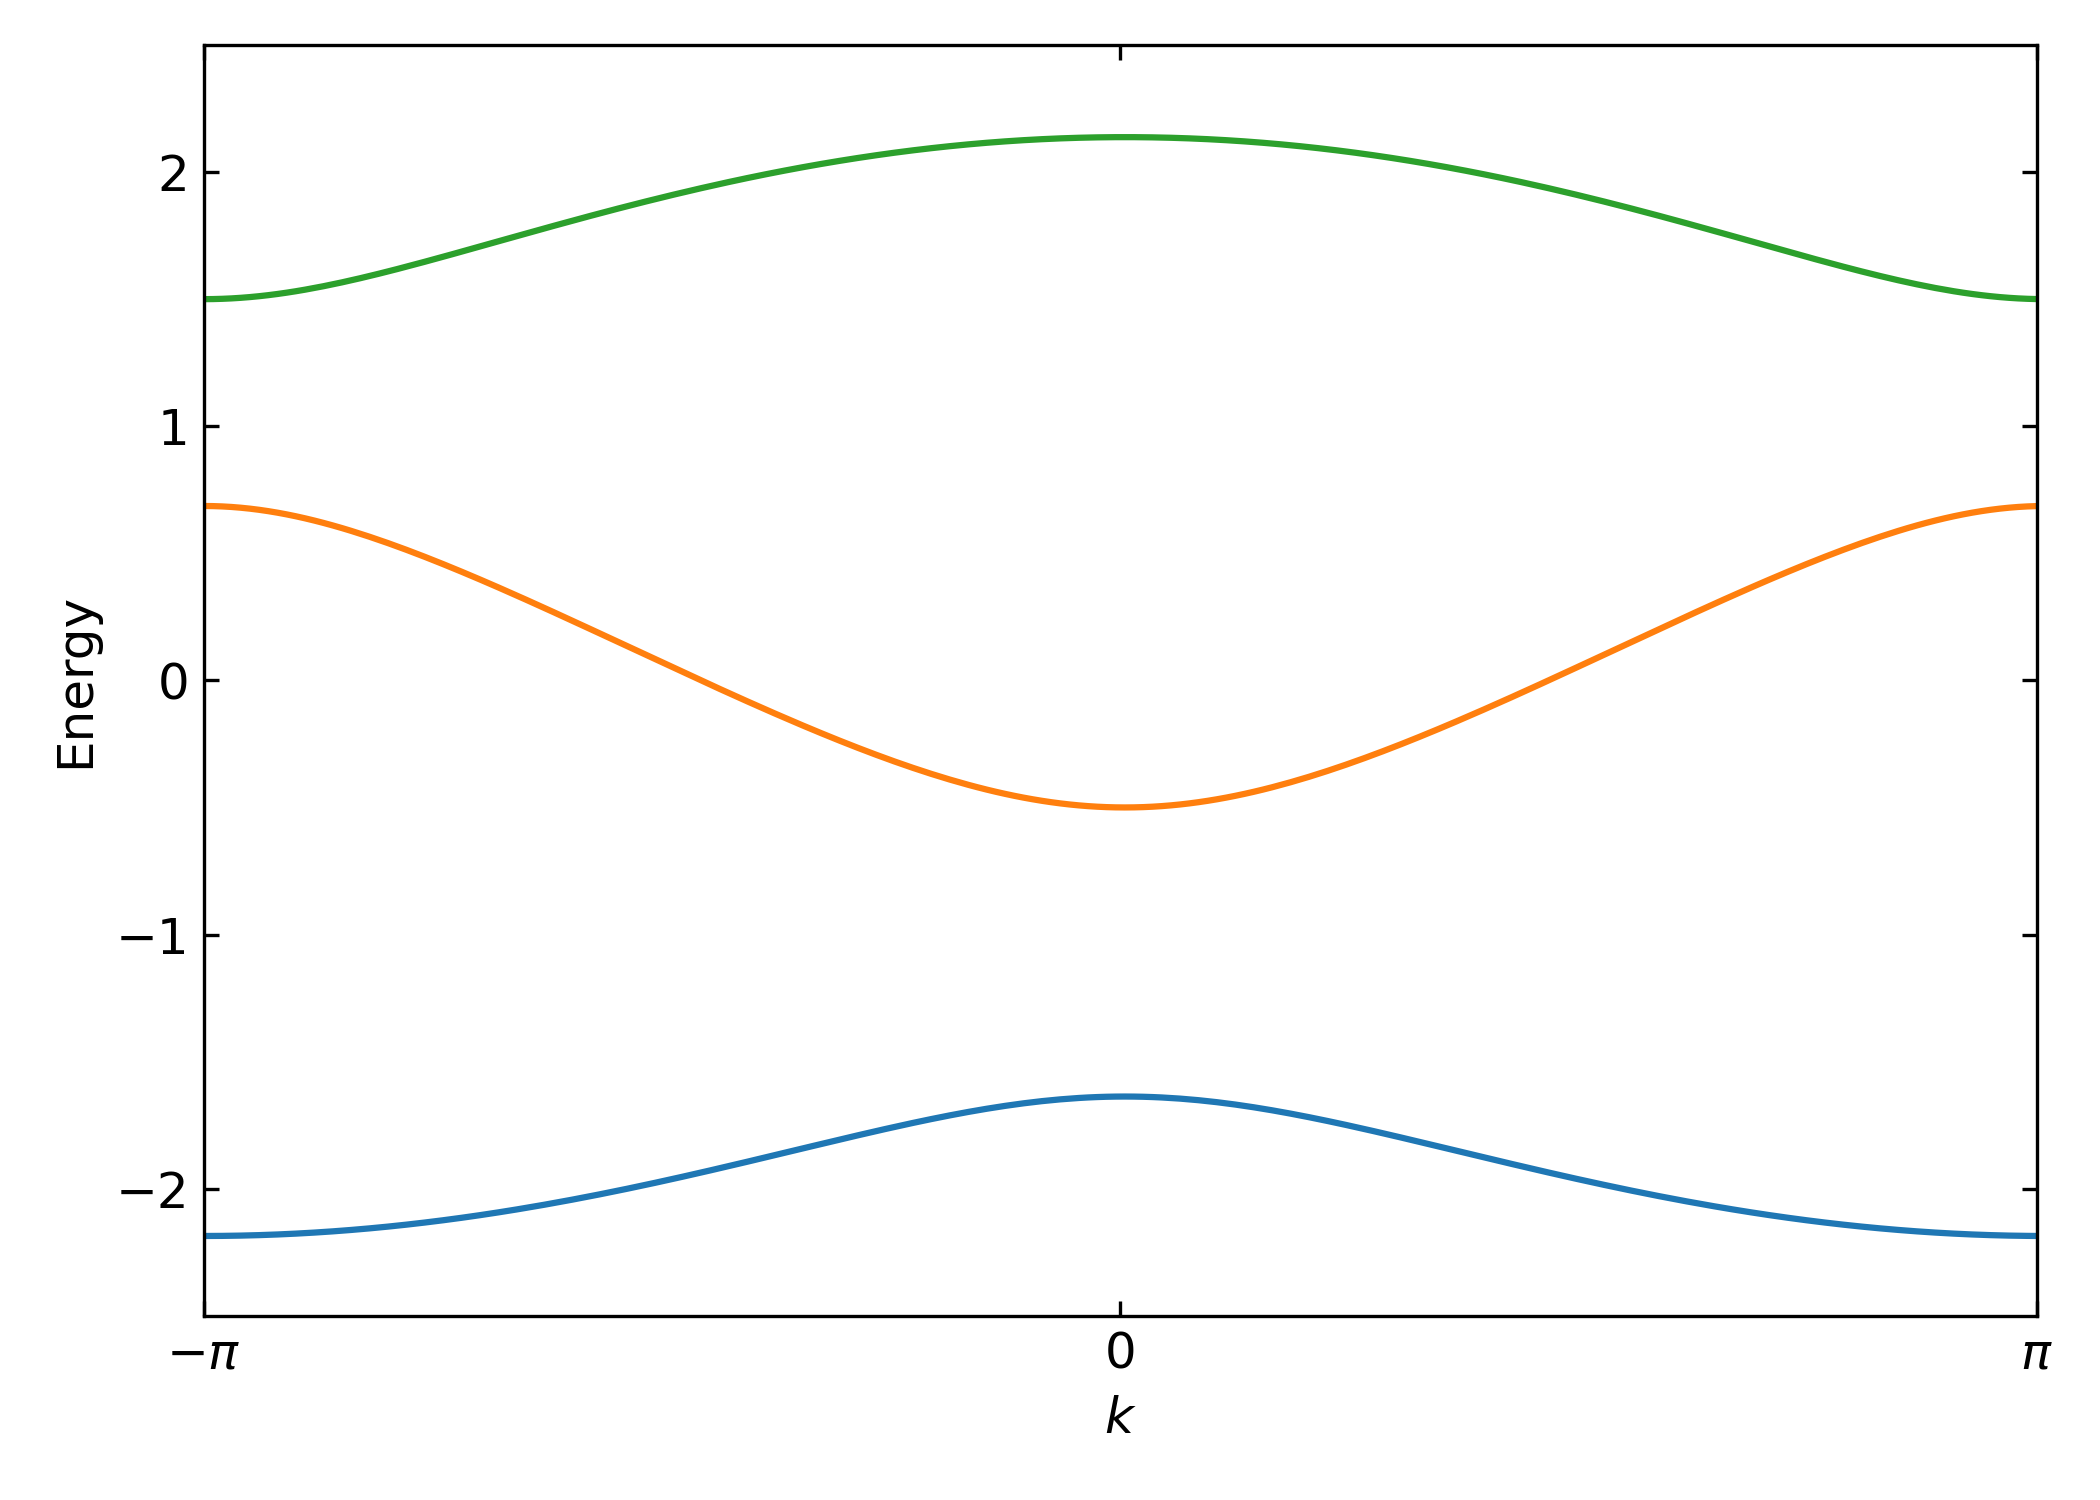
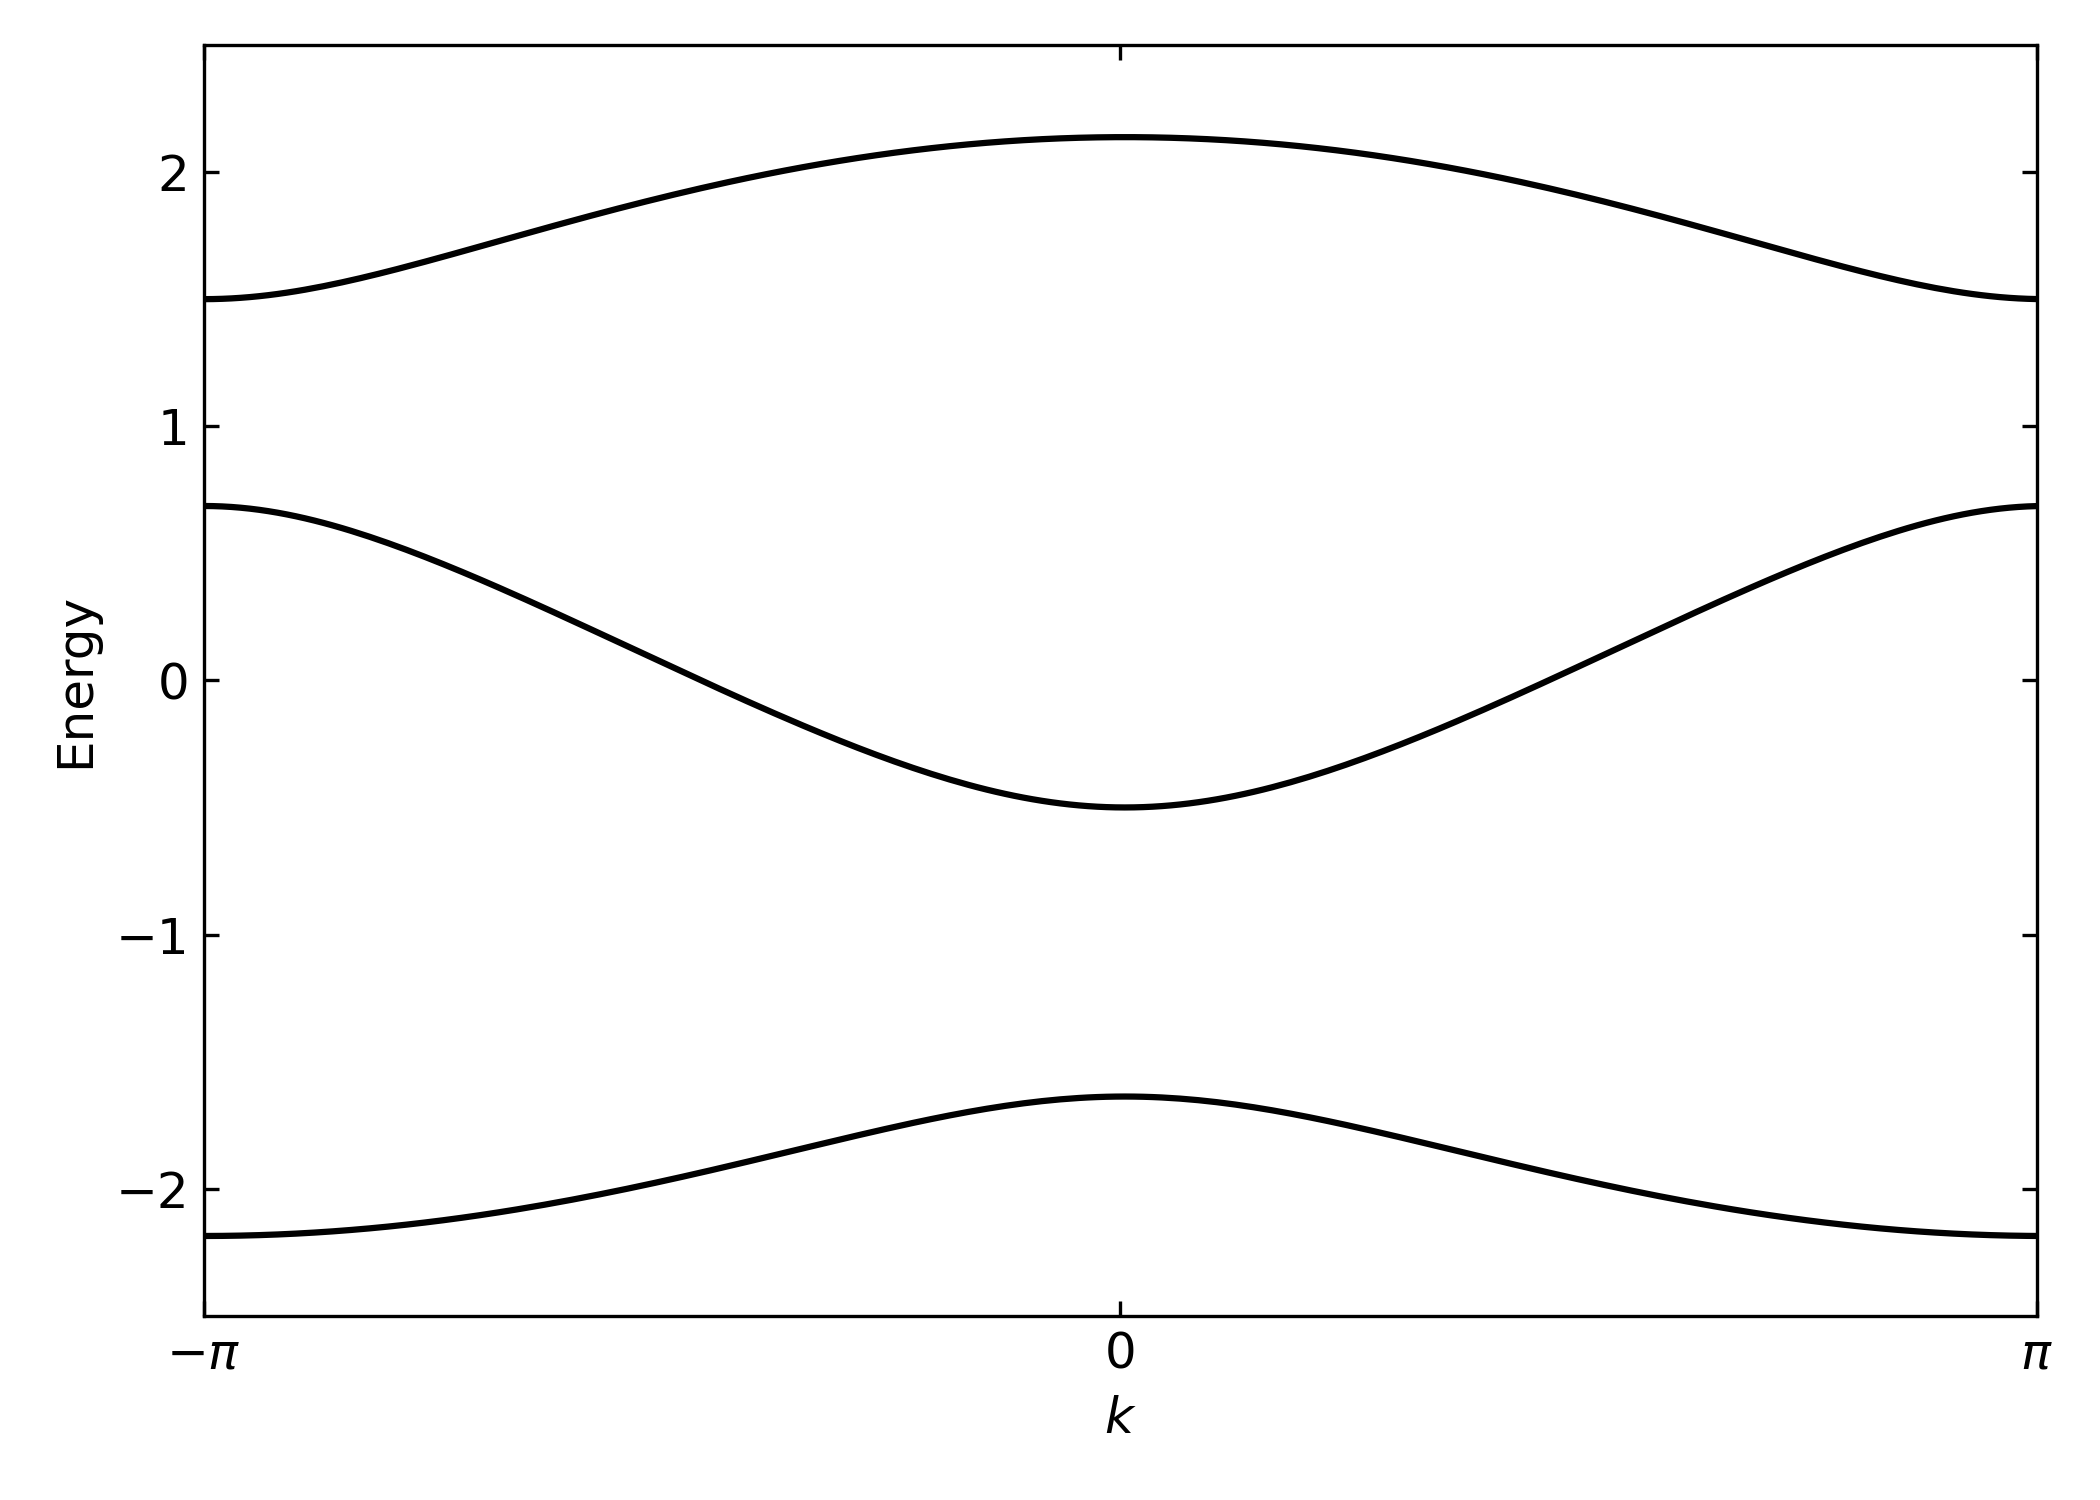
added 2 band hamiltonian and edited README.md

diff --git a/tight-binding/pol_electric.py b/tight-binding/pol_electric.py
@@ -27,7 +27,7 @@ def calc_static_pol_el(E_field, N=200, max_iter=300, get_v_k=False):
     dk = 2*np.pi/N
     x_l = np.array([-1/3, 0, 1/3])
     
-    # Intra-cell gauge phases for accurate overlaps
+    # Intra-cell phases for accurate overlaps
     D_plus = np.exp(-1j * dk * x_l)
     D_minus = np.exp(1j * dk * x_l)
     
@@ -57,7 +57,7 @@ def calc_static_pol_el(E_field, N=200, max_iter=300, get_v_k=False):
         v_k_new = vecs[:, :, 0]
         
         # Include geometric phase in wave functions to prevent discontinuities
-        phase = np.angle(np.sum(v_k.conj() * v_k_new, axis=1))
+        phase = np.imag(np.log(np.sum(v_k.conj() * v_k_new, axis=1)))
         v_k_new = v_k_new * np.exp(-1j * phase)[:, None]
         
         if np.max(np.abs(v_k_new - v_k)) < 1e-7:    # Tolerance for convergence
@@ -70,7 +70,8 @@ def calc_static_pol_el(E_field, N=200, max_iter=300, get_v_k=False):
     v_k_plus = np.roll(v_k, -1, axis=0)
     overlaps = np.sum(v_k.conj() * D_plus * v_k_plus, axis=1)
     
-    pol_static = np.angle(np.prod(overlaps)) / (2 * np.pi)
+    pol_static = np.imag(np.log(np.prod(overlaps))) / (2*np.pi)
+
     if get_v_k:
         return v_k, pol_static
     else:
@@ -106,7 +107,7 @@ def calc_dyn_pol_el(E_max, T_ramp, N=200, dt=0.005, t_max=120):
     
     I_stack = np.tile(np.eye(3, dtype=complex), (N, 1, 1))
     times = np.arange(0, t_max + dt/2, dt)
-    P_vals, saved_times = [], []
+    ang, saved_times = [], []
     save_interval = 20
     
     for step, t in enumerate(times):
@@ -116,9 +117,8 @@ def calc_dyn_pol_el(E_max, T_ramp, N=200, dt=0.005, t_max=120):
         if step % save_interval == 0:
             v_k_plus = np.roll(v_k, -1, axis=0)
             overlaps = np.sum(v_k.conj() * D_plus * v_k_plus, axis=1)
-            
-            # Positive sign applied here
-            P_vals.append(np.angle(np.prod(overlaps)) / (2 * np.pi))
+
+            ang.append(np.imag(np.log(np.prod(overlaps))))
             saved_times.append(t)
             
         # dual states and overlaps
@@ -143,7 +143,7 @@ def calc_dyn_pol_el(E_max, T_ramp, N=200, dt=0.005, t_max=120):
         x = np.linalg.solve(B, v_k[..., np.newaxis])
         v_k = (A @ x)[..., 0]
         
-    P_unwrapped = np.unwrap(np.array(P_vals) * 2 * np.pi) / (2 * np.pi)
-    P_unwrapped -= P_unwrapped[0]
-    return np.array(saved_times), P_unwrapped
+    P_dyn = np.unwrap(np.array(ang)) / (2*np.pi)
+    P_dyn -= P_dyn[0]
+    return np.array(saved_times), P_dyn
 

diff --git a/tight-binding/pol_alpha.py b/tight-binding/pol_alpha.py
@@ -30,7 +30,7 @@ def calc_dyn_pol_alpha(T: float, t_max: float, N_k: int):
     save_interval = 20 # input
 
     save_times = []
-    P_dyn_wrapped = []
+    P_dyn = []
 
     # 2
     for step, t in enumerate(times):
@@ -45,7 +45,8 @@ def calc_dyn_pol_alpha(T: float, t_max: float, N_k: int):
             
             v_k_next = np.roll(v_k_dyn, shift=-1, axis=0)
             overlaps = np.sum(v_k_dyn.conj() * v_k_next * D, axis=1)
-            P_dyn_wrapped.append(np.angle(np.prod(overlaps)) / (2 * np.pi))
+            ang = np.imag(np.log(np.prod(overlaps)))
+            P_dyn.append(ang)
 
         # 3
         H_all = fn_H_k_alpha(alpha, N_k)
@@ -55,9 +56,8 @@ def calc_dyn_pol_alpha(T: float, t_max: float, N_k: int):
         x = np.linalg.solve(B, v_k_dyn[..., np.newaxis])
         v_k_dyn = (A @ x)[..., 0]
 
-    P_dyn = np.array(P_dyn_wrapped)
-    P_dyn = np.unwrap(P_dyn * 2 * np.pi) / (2 * np.pi)
-
+    P_dyn = np.array(P_dyn)
+    P_dyn = np.unwrap(P_dyn)/(2*np.pi)  # unwrap to avoid discontinuities
     P_dyn = P_dyn[0] - P_dyn
     
     return np.array(save_times), P_dyn
@@ -85,7 +85,7 @@ def calc_ad_pol_alpha(T: float, t_max: float, N_k: int):
     save_interval = 20
 
     save_times = []
-    P_ad_wrapped = []
+    P_ad = []
 
     # 2
     for step, t in enumerate(times):
@@ -103,11 +103,11 @@ def calc_ad_pol_alpha(T: float, t_max: float, N_k: int):
             v_k_ad = vecs[:, :, 0]
             v_k_next_ad = np.roll(v_k_ad, shift=-1, axis=0)
             overlaps_ad = np.sum(v_k_ad.conj() * v_k_next_ad * D, axis=1)
-            P_ad_wrapped.append(np.angle(np.prod(overlaps_ad)) / (2 * np.pi))
+            ang = np.imag(np.log(np.prod(overlaps_ad)))
+            P_ad.append(ang)
 
-    P_ad = np.array(P_ad_wrapped)
-    P_ad = np.unwrap(P_ad * 2 * np.pi) / (2 * np.pi)
-
+    P_ad = np.array(P_ad)
+    P_ad = np.unwrap(P_ad) / (2*np.pi)
     P_ad = P_ad[0] - P_ad
     
     return np.array(save_times), P_ad

diff --git a/tight-binding/plot1.py b/tight-binding/plot1.py
@@ -2,14 +2,32 @@ from ham_k import *
 import matplotlib.pyplot as plt
 
 k_vals = np.linspace(-np.pi, np.pi, 200)
-Ham_k = fn_H_k_alpha(alpha=0, N_k=200)
+Ham_k = fn_H2_k_alpha(alpha=0, N_k=200)
 eigvals = np.linalg.eigvalsh(Ham_k)
 # energies[i, :] = np.sort(eigvals)
 # print(Ham_k.shape, eigvals.shape)
 
 plt.figure(figsize=(7, 5))
+for ni in range(2):
+    plt.plot(k_vals, eigvals[:, ni], 'k-')
+
+plt.xlabel('$k$', fontsize=12)
+plt.ylabel('Energy', fontsize=12)
+plt.xlim(-np.pi, np.pi)
+plt.ylim(-2.5, 2.5)
+plt.xticks([-np.pi, 0, np.pi], [r'$-\pi$', '0', r'$\pi$'], fontsize=10)
+plt.yticks([-2, -1, 0, 1, 2], fontsize=10)
+plt.tick_params(direction='in', top=True, right=True, labelsize=12)
+plt.tight_layout()
+plt.savefig('figs/prb69fig1a.png', dpi=300)
+plt.show()
+
+Ham_k = fn_H_k_alpha(alpha=0, N_k=200)
+eigvals = np.linalg.eigvalsh(Ham_k)
+
+plt.figure(figsize=(7, 5))
 for ni in range(3):
-    plt.plot(k_vals, eigvals[:, ni])
+    plt.plot(k_vals, eigvals[:, ni], 'k-')
 
 plt.xlabel('$k$', fontsize=12)
 plt.ylabel('Energy', fontsize=12)

diff --git a/tight-binding/ham2bands.py b/tight-binding/ham2bands.py
@@ -1,27 +1,5 @@
 import numpy as np
 
-def fn_H2_k_alpha(alpha, N_k):
-    """Constructs the 2 band Hamiltonian H(k).
-    Inputs: alpha, N_k: number of k-points.
-    Returns: H_k as a matrix."""
-    # System parameters
-    t_hop = 1.0
-    Delta = -1.0
-
-    beta = np.array([-np.pi/2, np.pi/2])
-
-    k_vals = np.linspace(-np.pi, np.pi, N_k, endpoint=False)
-
-    epsilon = Delta * np.cos(alpha - beta)
-    H = np.zeros((N_k, 2, 2), dtype=complex)
-    
-    H[:, 0, 0] = epsilon[0]
-    H[:, 1, 1] = epsilon[1]
-
-    H[:, 0, 1] = t_hop*(1 + np.exp(-1j * k_vals))
-    H[:, 1, 0] = t_hop*(1 + np.exp(1j * k_vals))
-    return H
-
 def fn_H_k_alpha(alpha, N_k):
     """Constructs the 3 band Hamiltonian H(k).
     Inputs: alpha, N_k: number of k-points.
@@ -47,3 +25,4 @@ def fn_H_k_alpha(alpha, N_k):
     H[:, 0, 2] = t_hop * np.exp(-1j * k_vals)
     H[:, 2, 0] = t_hop * np.exp(1j * k_vals)
     return H
+

diff --git a/README.md b/README.md
@@ -2,17 +2,23 @@
 
 Calculation of Berry phase polarization using Quantum MASALA, Quantum ESPRESSO, and tight-binding model. 
 
-## Using Quantum MASALA
+## Using Quantum ESPRESSO (QE)
 
-## Using Quantum ESPRESSO
+In the QE package, the example 10 is dedicated for this purpose. The results of [Ref. 4] is reproduced by using QE.
 
-In the package, the example 10 is dedicated for this purpose.
+## Using Quantum MASALA (QTM)
+
+The inclusion of electric field is currently not present in this package. This work intends to do that. For benchmarking the results, the results from QE is used.
 
 ## Using tight-binding model
 
+This is based on a 3 band tight binding Hamiltonian [Ref. 2] from which dynamical Berry phase polarization is is calculated. The results matches with the results of [Ref. 5].
 
 
 Main references:
 
-1. Ivo Souza, Jorge Iniguez, and David Vanderbilt; PRL 89, 117602 (2002).
-2. Ivo Souza, Jorge Iniguez, and David Vanderbilt; PRB 69, 085106 (2004).
+1. R. D. King-Smith and David Vanderbilt; PRB 47, 1651 (1993).
+2. R. W. Nunes and David Vanderbilt; PRL 73, 712 (1994).
+3. R. W. Nunes and Xavier Gonze; PRB 63, 155107 (2001).
+4. Ivo Souza, Jorge Iniguez, and David Vanderbilt; PRL 89, 117602 (2002).
+5. Ivo Souza, Jorge Iniguez, and David Vanderbilt; PRB 69, 085106 (2004).
